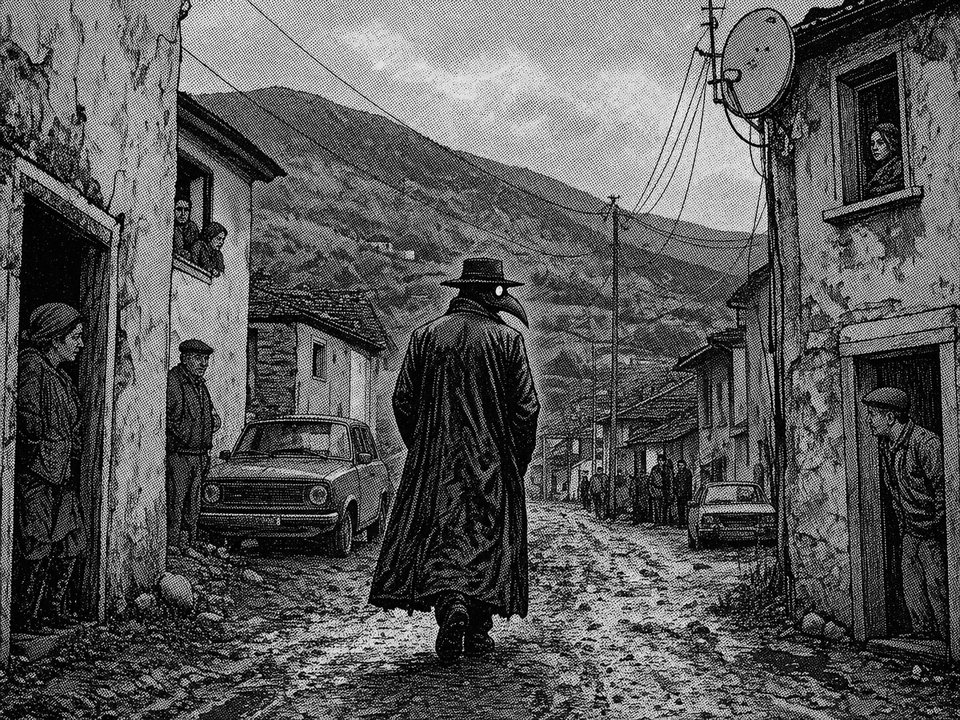
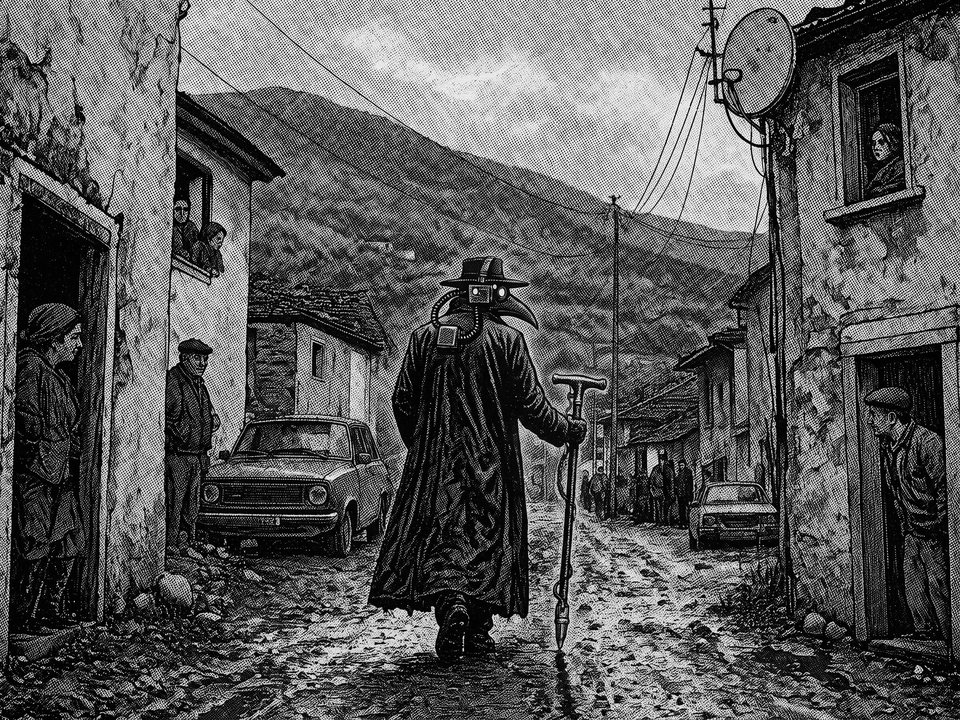
La foto del giornale con la maschera e il bastone-sonda
Il medico di spalle nella via del paese ha ora la maschera della scheda
(il blocco della videocamera, il cavo a spirale, la batteria sulla nuca)
e il bastone col manico a T: Nano Banana Pro dalla foto di prima e dalla
scheda (art/giornale/lavori_maschera.json). La foto di prima resta come
sorgente.

Claude-Session: https://claude.ai/code/session_01RpQD46WQQgWyeaQnPRy7dc

diff --git a/tools/prepara_gioco.py b/tools/prepara_gioco.py
@@ -196,9 +196,10 @@ def volti():
 
 
 def giornale():
-    # il giornale disegnato (il testo lo stampa il gioco) e la foto della prima pagina, in bianco e nero
+    # il giornale disegnato (il testo lo stampa il gioco) e la foto della prima pagina, in bianco e nero: il medico di
+    # spalle con la maschera della scheda (la videocamera, il cavo e la batteria sulla nuca) e il bastone-sonda
     Image.open(ROOT / "art/giornale/giornale.jpg").convert("RGB").save(OUT / "giornale.jpg", quality=86)
-    Image.open(ROOT / "art/giornale/foto_medico.jpg").convert("L").resize((960, 720), Image.LANCZOS).save(
+    Image.open(ROOT / "art/giornale/foto_medico_maschera.jpg").convert("L").resize((960, 720), Image.LANCZOS).save(
         OUT / "foto_medico.jpg", quality=84)
     print("giornale ok")
 

diff --git a/docs/riepilogo.md b/docs/riepilogo.md
@@ -127,7 +127,7 @@ Decise il 26 ottobre, con le domande in chat.
 - **La mappa del paese** (26 ottobre, rifatta **piatta e schematica**, come la mappa di esempio): una pianta vista da sopra, senza prospettiva, con pochi colori e pochi dettagli: campi e orti verde oliva e salvia, case beige col bordo scuro, strade color carta, il fiume celeste. Ci sono il cartiglio con MALVENTO, la freccia del nord, la scala in METRI e i nomi delle vie (Via della Chiesa, Vicolo Stretto, Via dei Mulini, Via del Fiume, Strada del Cimitero). In mezzo la piazza con la chiesa a croce, attorno le case; il fiume a sinistra con due ponti, il cimitero in basso a sinistra e, a destra, il recinto della PANACEA con tre prefabbricati bianchi: la ditta fuori posto nel paese. Fatta con GPT Image 2 (`art/scrivania/mappa_pianta/schematica.jpg`; nella stessa cartella le altre prove, più disegnate o con meno case). Nel gioco si usa com'è, senza mescolarla al disegno. Sulla mappa ci sono 25 case: **23 hanno lo spillo**, numerate per file dall'alto; restano libere quella piccola accanto alla casa 3 e quella sulla piazza a destra della chiesa (potranno essere il bar o il comune). Lo spillo sta un po' sotto il centro della casa, così la testa resta sulla casa e non copre vie e scritte, nemmeno sul telefono. Chiesa, cimitero e recinto hanno il loro spillo col simbolo. Dove sono le case lo calcola `art/scrivania/mappa_pianta/case.py` dal colore delle case (`TETTI` in `gioco/js/dati.js`). Nel gioco la mappa si ingrandisce toccandola. Le icone a comparsa stanno sopra la scala dei METRI, e il tempo in alto a destra non tocca il cartiglio nemmeno sul telefono. Le mappe di prima sono in `art/scrivania`: quella a 25 case disegnata al 40% (`mappa_25_case.jpg`), quella da 50 case (`mappa_paese.jpg`) e la prima, più piccola (`mappa_prima.jpg`). Gli indirizzi degli stati di famiglia seguono le vie nuove (la casa 3 in Via della Chiesa 12, la casa 5 in Vicolo Stretto 3); con le case spostate sono cambiati anche i vicini dove passa il contagio di notte (per la casa 3 la 2 e la 7, per la casa 5 la 10 e la 4).
   Come si sono tolte le case (`art/scrivania`): Nano Banana Pro, chiedendo di togliere metà delle case, ne ha tolte solo 15 (`mappa_35_case.jpg`); chiedendone altre, o segnandole con una X rossa, non ne ha tolta nessuna; FLUX Fill con la maschera ci ha ridisegnato altre case. Ha funzionato **GPT Image 2 con la maschera** (`openai/gpt-image-2/edit` con `mask_url`, bianco dove cambiare): al posto di 11 case orti e alberi (`mappa_25_case_toppe.jpg`), incollati solo nelle zone della maschera sulla mappa da 35 (`mappa_25_case.jpg`); poi la versione a fumetto (`mappa_25_case_stile.jpg`), riallineata con `tools/allinea.py`.
 - **Le case sulla mappa** (26 ottobre): passandoci sopra la casa si illumina e il medico la cerchia a matita rossa; accanto appare la sua scheda, un cartoncino con la segnalazione e gli occupanti. Prima della visita le foto sono vuote (punti di domanda); dopo la visita la scheda è piena: foto degli occupanti visti, cosa ha visto l'esame, chi è finito al lazzaretto, le prove, il provvedimento. Le foto sono ritagli delle scene (`gioco/img/volti`).
-- **Il giornale** (26 ottobre): disegnato nello stile a fumetto, inclinato, con le pagine dietro storte come se fosse piegato male (`art/giornale/giornale.jpg`, GPT Image 2). Sulla carta c'è solo la testata: titolo, sommario, foto e colonne li stampa il gioco con la stessa prospettiva della pagina (`PAGINA` in `gioco/js/dati.js`), con un filtro che fa tremare un po' l'inchiostro. Così il testo cambia ogni giorno e resta leggibile. In prima pagina la foto del medico di spalle nella via del paese (`art/giornale/foto_medico.jpg`). Sugli schermi piccoli sotto la pagina c'è lo stesso testo da leggere. **La lente d'ingrandimento** (26 ottobre) per i testi piccoli: un cerchio che ingrandisce di 2,4 volte carta e testo dove passa il puntatore (col dito sta sopra il dito, o sotto se in cima non c'è posto); l'icona in alto a sinistra la posa e la riprende. Col dito parte posata, perché in mano trascinare muove la lente e non fa scorrere il foglio.
+- **Il giornale** (26 ottobre): disegnato nello stile a fumetto, inclinato, con le pagine dietro storte come se fosse piegato male (`art/giornale/giornale.jpg`, GPT Image 2). Sulla carta c'è solo la testata: titolo, sommario, foto e colonne li stampa il gioco con la stessa prospettiva della pagina (`PAGINA` in `gioco/js/dati.js`), con un filtro che fa tremare un po' l'inchiostro. Così il testo cambia ogni giorno e resta leggibile. In prima pagina la foto del medico di spalle nella via del paese (`art/giornale/foto_medico.jpg`); dal 26 ottobre con la maschera della scheda (il blocco della videocamera, il cavo a spirale e la batteria sulla nuca) e il bastone-sonda col manico a T (`art/giornale/foto_medico_maschera.jpg`, Nano Banana Pro dalla foto di prima e dalla scheda, lavoro in `lavori_maschera.json`). Sugli schermi piccoli sotto la pagina c'è lo stesso testo da leggere. **La lente d'ingrandimento** (26 ottobre) per i testi piccoli: un cerchio che ingrandisce di 2,4 volte carta e testo dove passa il puntatore (col dito sta sopra il dito, o sotto se in cima non c'è posto); l'icona in alto a sinistra la posa e la riprende. Col dito parte posata, perché in mano trascinare muove la lente e non fa scorrere il foglio.
 - **I comandi del medico sono icone a comparsa** (26 ottobre, al posto della barra sotto lo schermo, per ridurre l'interfaccia): Torna in cucina, Stato di famiglia, Concludi la visita, Alzati, Torna in stanza e lo schermo intero sono icone a pixel in basso a destra dentro lo schermo (nelle visite sopra il nastro delle frasi), col nome che compare passandoci sopra; il suggerimento della schermata è in basso a sinistra. Compaiono per qualche secondo a ogni schermata nuova e quando si muove il puntatore o si tocca lo schermo, poi spariscono e l'immagine della videocamera resta libera. Col dito le icone si mettono in colonna, ognuna col suo nome accanto. Senza la barra lo schermo di gioco è più grande.
 - **Un tono più da videogioco** (26 ottobre: il gioco sembrava troppo un film). Comandi, indicatori, etichette, avvisi e titoli della raggiera hanno un carattere a pixel (Silkscreen) e icone a pixel (`gioco/js/icone.js`: clessidra, facce della pazienza, moneta, casa, porta, foglio, firma, frecce, fumetto, lente, fiamma, punto di domanda). I bottoni sono pieni, col bordo e l'ombra, e si abbassano quando si premono; le domande della raggiera hanno il punto di domanda giallo, le porte la porta, le offerte la moneta; le frasi del nastro hanno il fumetto (dichiarazioni), la lente (indizi) o la fiamma (infrarosso); i soldi sono una moneta con la cifra. Le frasi dei dialoghi restano senza riquadri.
 - **Il fax è a simboli** (26 ottobre: era troppo realistico e lungo da leggere). Una scheda di carta termica con pittogrammi a pixel, come stampati da un fax: il marchio della Panacea, i quattro segni da cercare (termometro, collo col bubbone, faccia pallida, mano con le dita nere) con due parole ciascuno, le case da visitare, la paga a paziente e il premio per il profilo richiesto (una persona nel mirino: 18-35 anni, sani), il motto. Dati in `FAX` (`gioco/js/dati.js`).
@@ -279,7 +279,7 @@ Questionario dei filtri (08), con i voti salvati: https://claude.ai/artifact/MQT
   - **Tripo H3.1** (`tripo3d/h3.1/image-to-3d`): un modello 3D con texture da una foto, 30 centesimi; con `face_limit` resta leggero. `tools/fal_batch.py` salva il GLB e l'anteprima.
   - **Meshy 7.1** (`fal-ai/meshy/v7.1/image-to-3d`): un modello 3D con materiali fisici (colore, rilievo, lucido; texture da 2048) da una foto, 1,20 dollari; con `target_polycount` 30.000 e `should_remesh` viene da 21.000-31.000 triangoli. Molto meglio di Tripo, ma sbaglia le proporzioni e consegna i mobili un po' girati, come nella foto: nella stanza si raddrizzano e si mettono alle misure vere (`dim` in `gioco/js/stanza.js`). Gli originali sono in `art/stanza3d/mobili` e `art/stanza3d/scrivania3d`, con le texture passate in WebP alla stessa risoluzione (da 10-14 MB a 2-5 MB l'uno).
   - **Flux 2 Max**: scartato, resa inferiore.
-- Spesa per tutte le prove: circa 15 dollari, più circa 4 per la stanza 3D (texture, foto degli oggetti e modelli di Tripo) e 35 centesimi per la prova sulla pelle; il 26 ottobre poi circa 10 per i mobili di Meshy (otto modelli, foto e tappeto), circa 12,40 per gli oggetti della scrivania di Meshy (dieci modelli e otto foto) circa 1 per le prove della mappa schematica (GPT Image 2 in alta qualità) circa 8 per le immagini dell'ospite della notte e circa 1,20 per le schede dei personaggi (con la prova della febbre).
+- Spesa per tutte le prove: circa 15 dollari, più circa 4 per la stanza 3D (texture, foto degli oggetti e modelli di Tripo) e 35 centesimi per la prova sulla pelle; il 26 ottobre poi circa 10 per i mobili di Meshy (otto modelli, foto e tappeto), circa 12,40 per gli oggetti della scrivania di Meshy (dieci modelli e otto foto) circa 1 per le prove della mappa schematica (GPT Image 2 in alta qualità) circa 8 per le immagini dell'ospite della notte e circa 1,20 per le schede dei personaggi (con la prova della febbre) e 15 centesimi per la foto del giornale con la maschera.
 - Steam chiede di dichiarare sulla pagina del gioco i contenuti generati con l'AI.
 
 ### 3D
@@ -343,7 +343,7 @@ Fatta il 26 ottobre (`gioco/js/stanza.js`) e **rifatta lo stesso giorno** (la pr
 2. Dialoghi: per ora A + B; l'interfaccia va ancora trovata (il misto B + C non ha convinto).
 3. Il nome del paese, tra le proposte in "Domande aperte".
 4. La stanza del medico in 3D: rifatta il 26 ottobre (più grande, mobili di Meshy, sguardo col mouse, filtro catrame, porta della stanzetta dell'ospite, la scrivania in 3D con gli oggetti di Meshy). **L'ospite della notte** è nel prototipo (26 ottobre, vedi "La giornata").
-5. Elementi cyberpunk (approvati): approvare la scheda della maschera e del bastone (`art/medico/maschera.jpg`), poi metterla sulla scrivania e nella foto del giornale.
+5. Elementi cyberpunk (approvati): approvare la scheda della maschera e del bastone (`art/medico/maschera.jpg`). Intanto la maschera è sulla scrivania (il modello di Meshy) e, dal 26 ottobre, con il bastone nella foto del giornale.
 6. Schede dei personaggi: un riferimento per ognuno, da usare in tutte le scene e in tutti gli stati. **Fatte il 26 ottobre** per i sei personaggi (`art/personaggi`, vedi "Coerenza dei personaggi").
 7. Il gioco completo: famiglie, storia, giorni.
 
